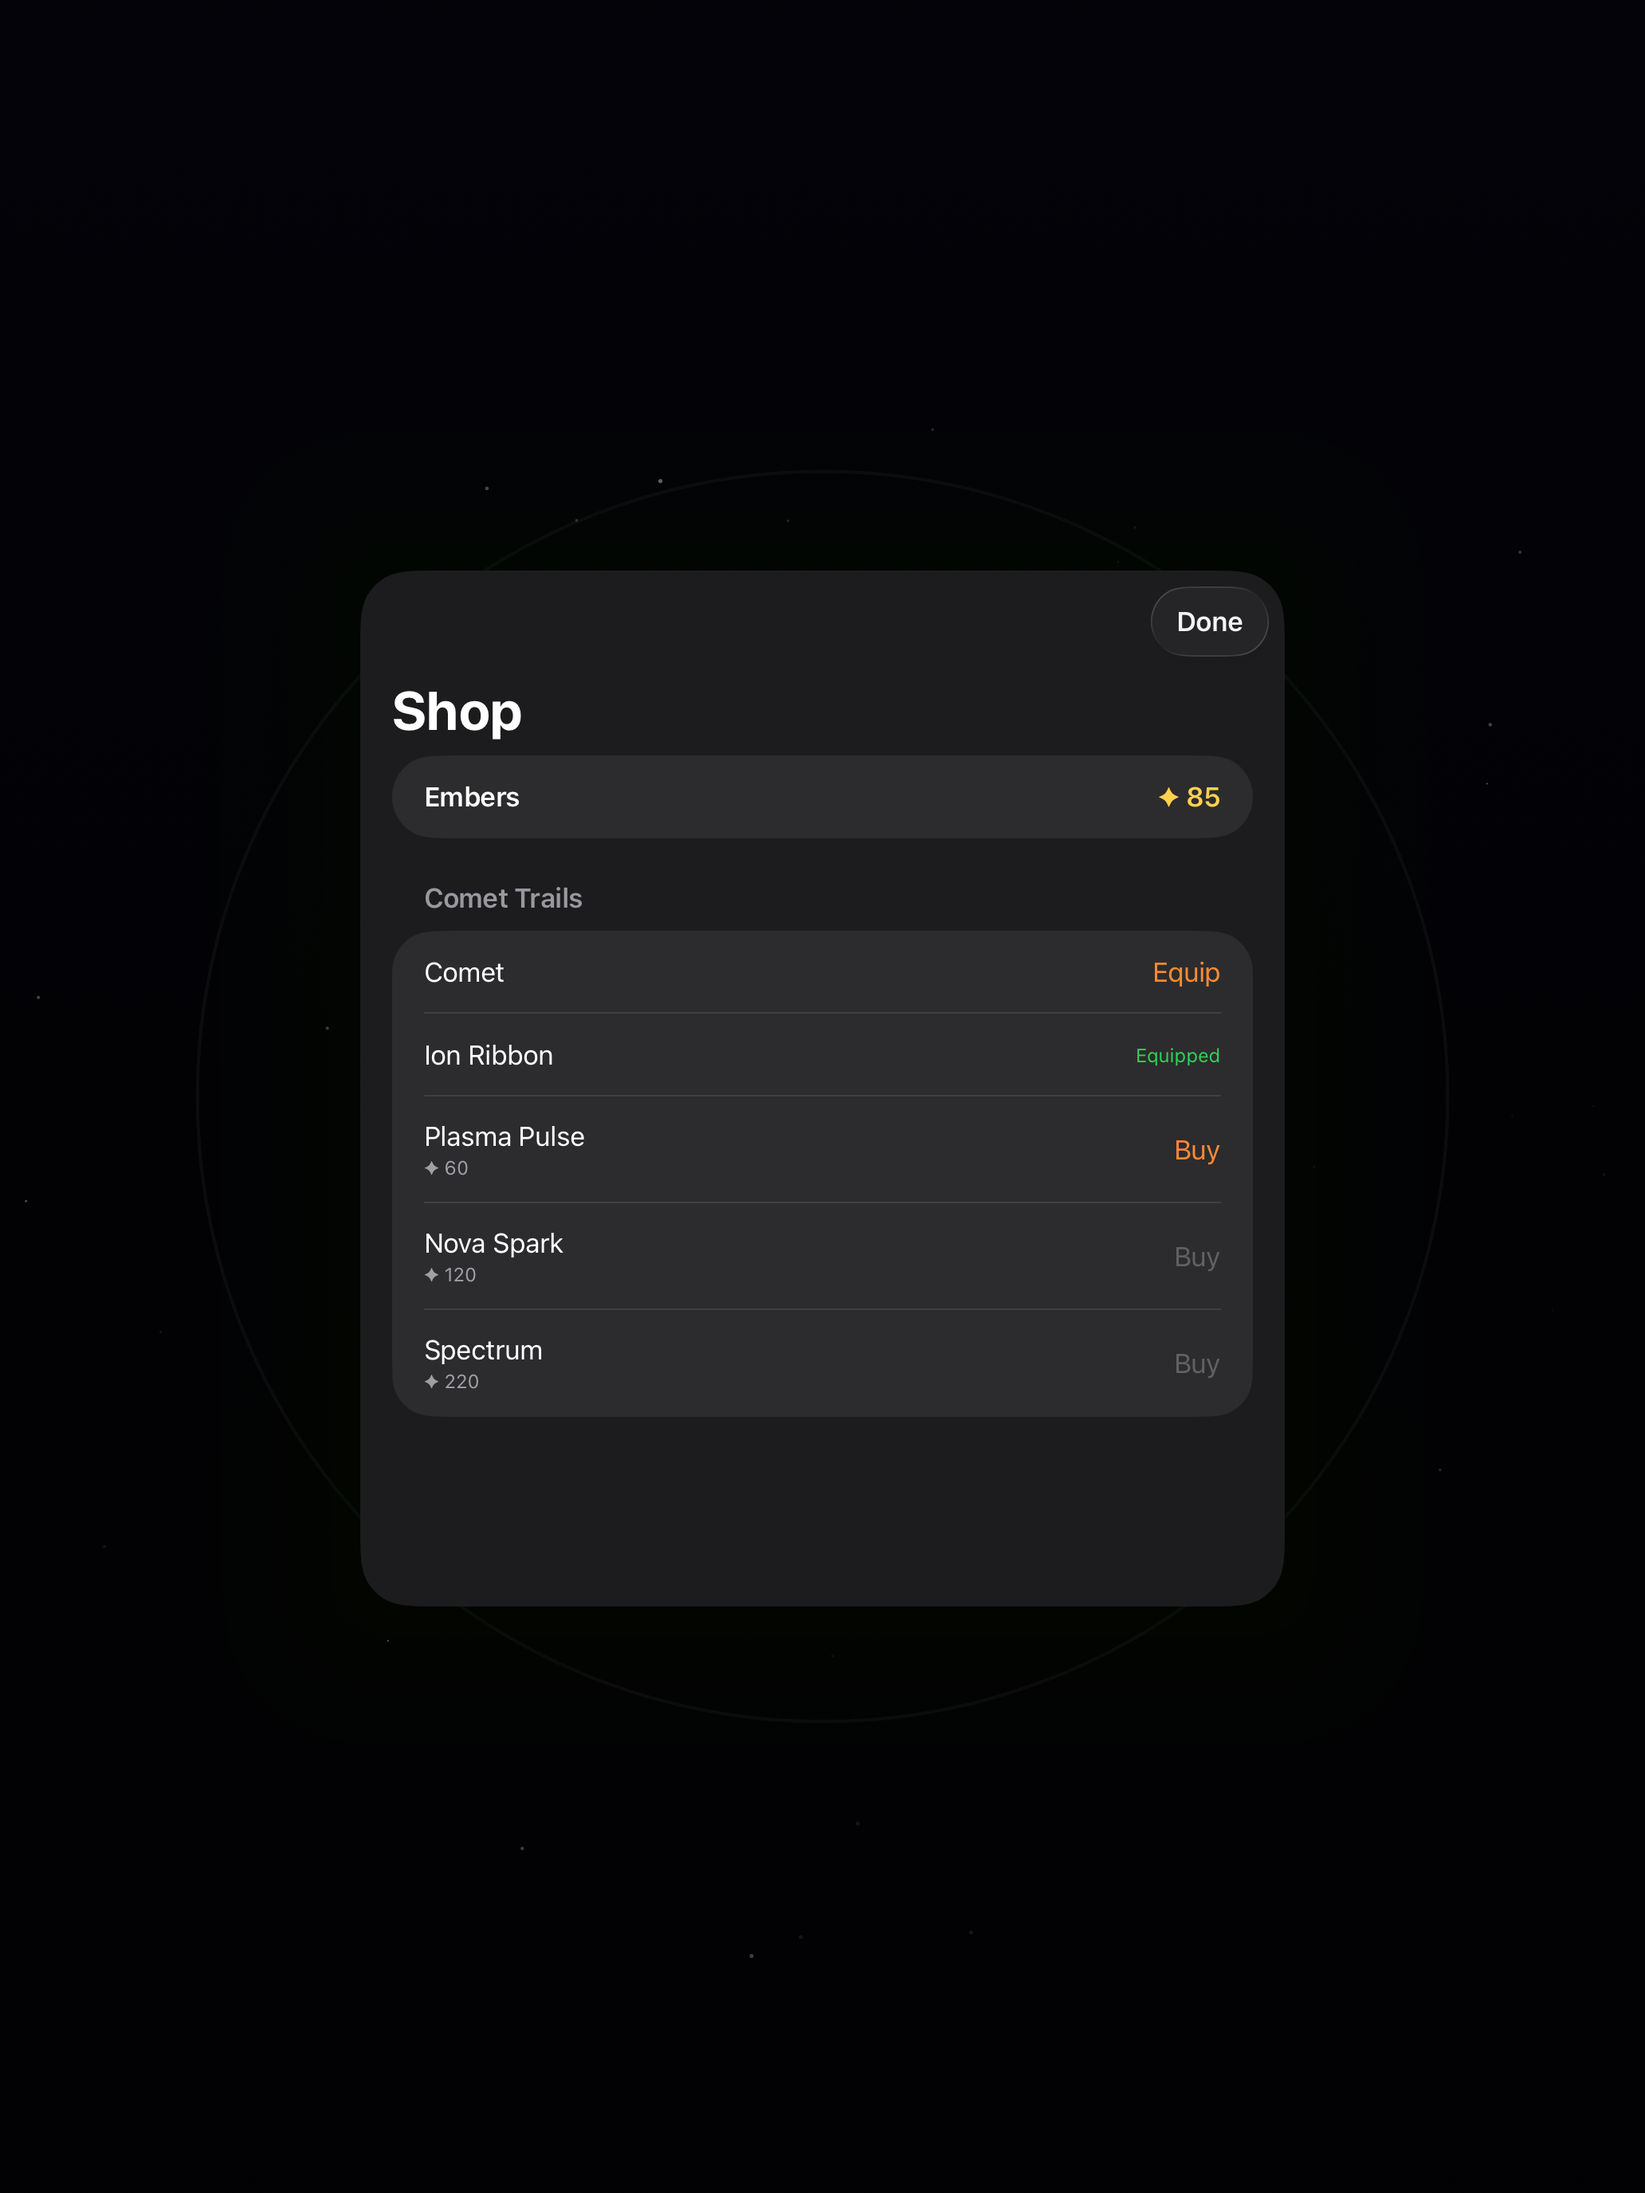
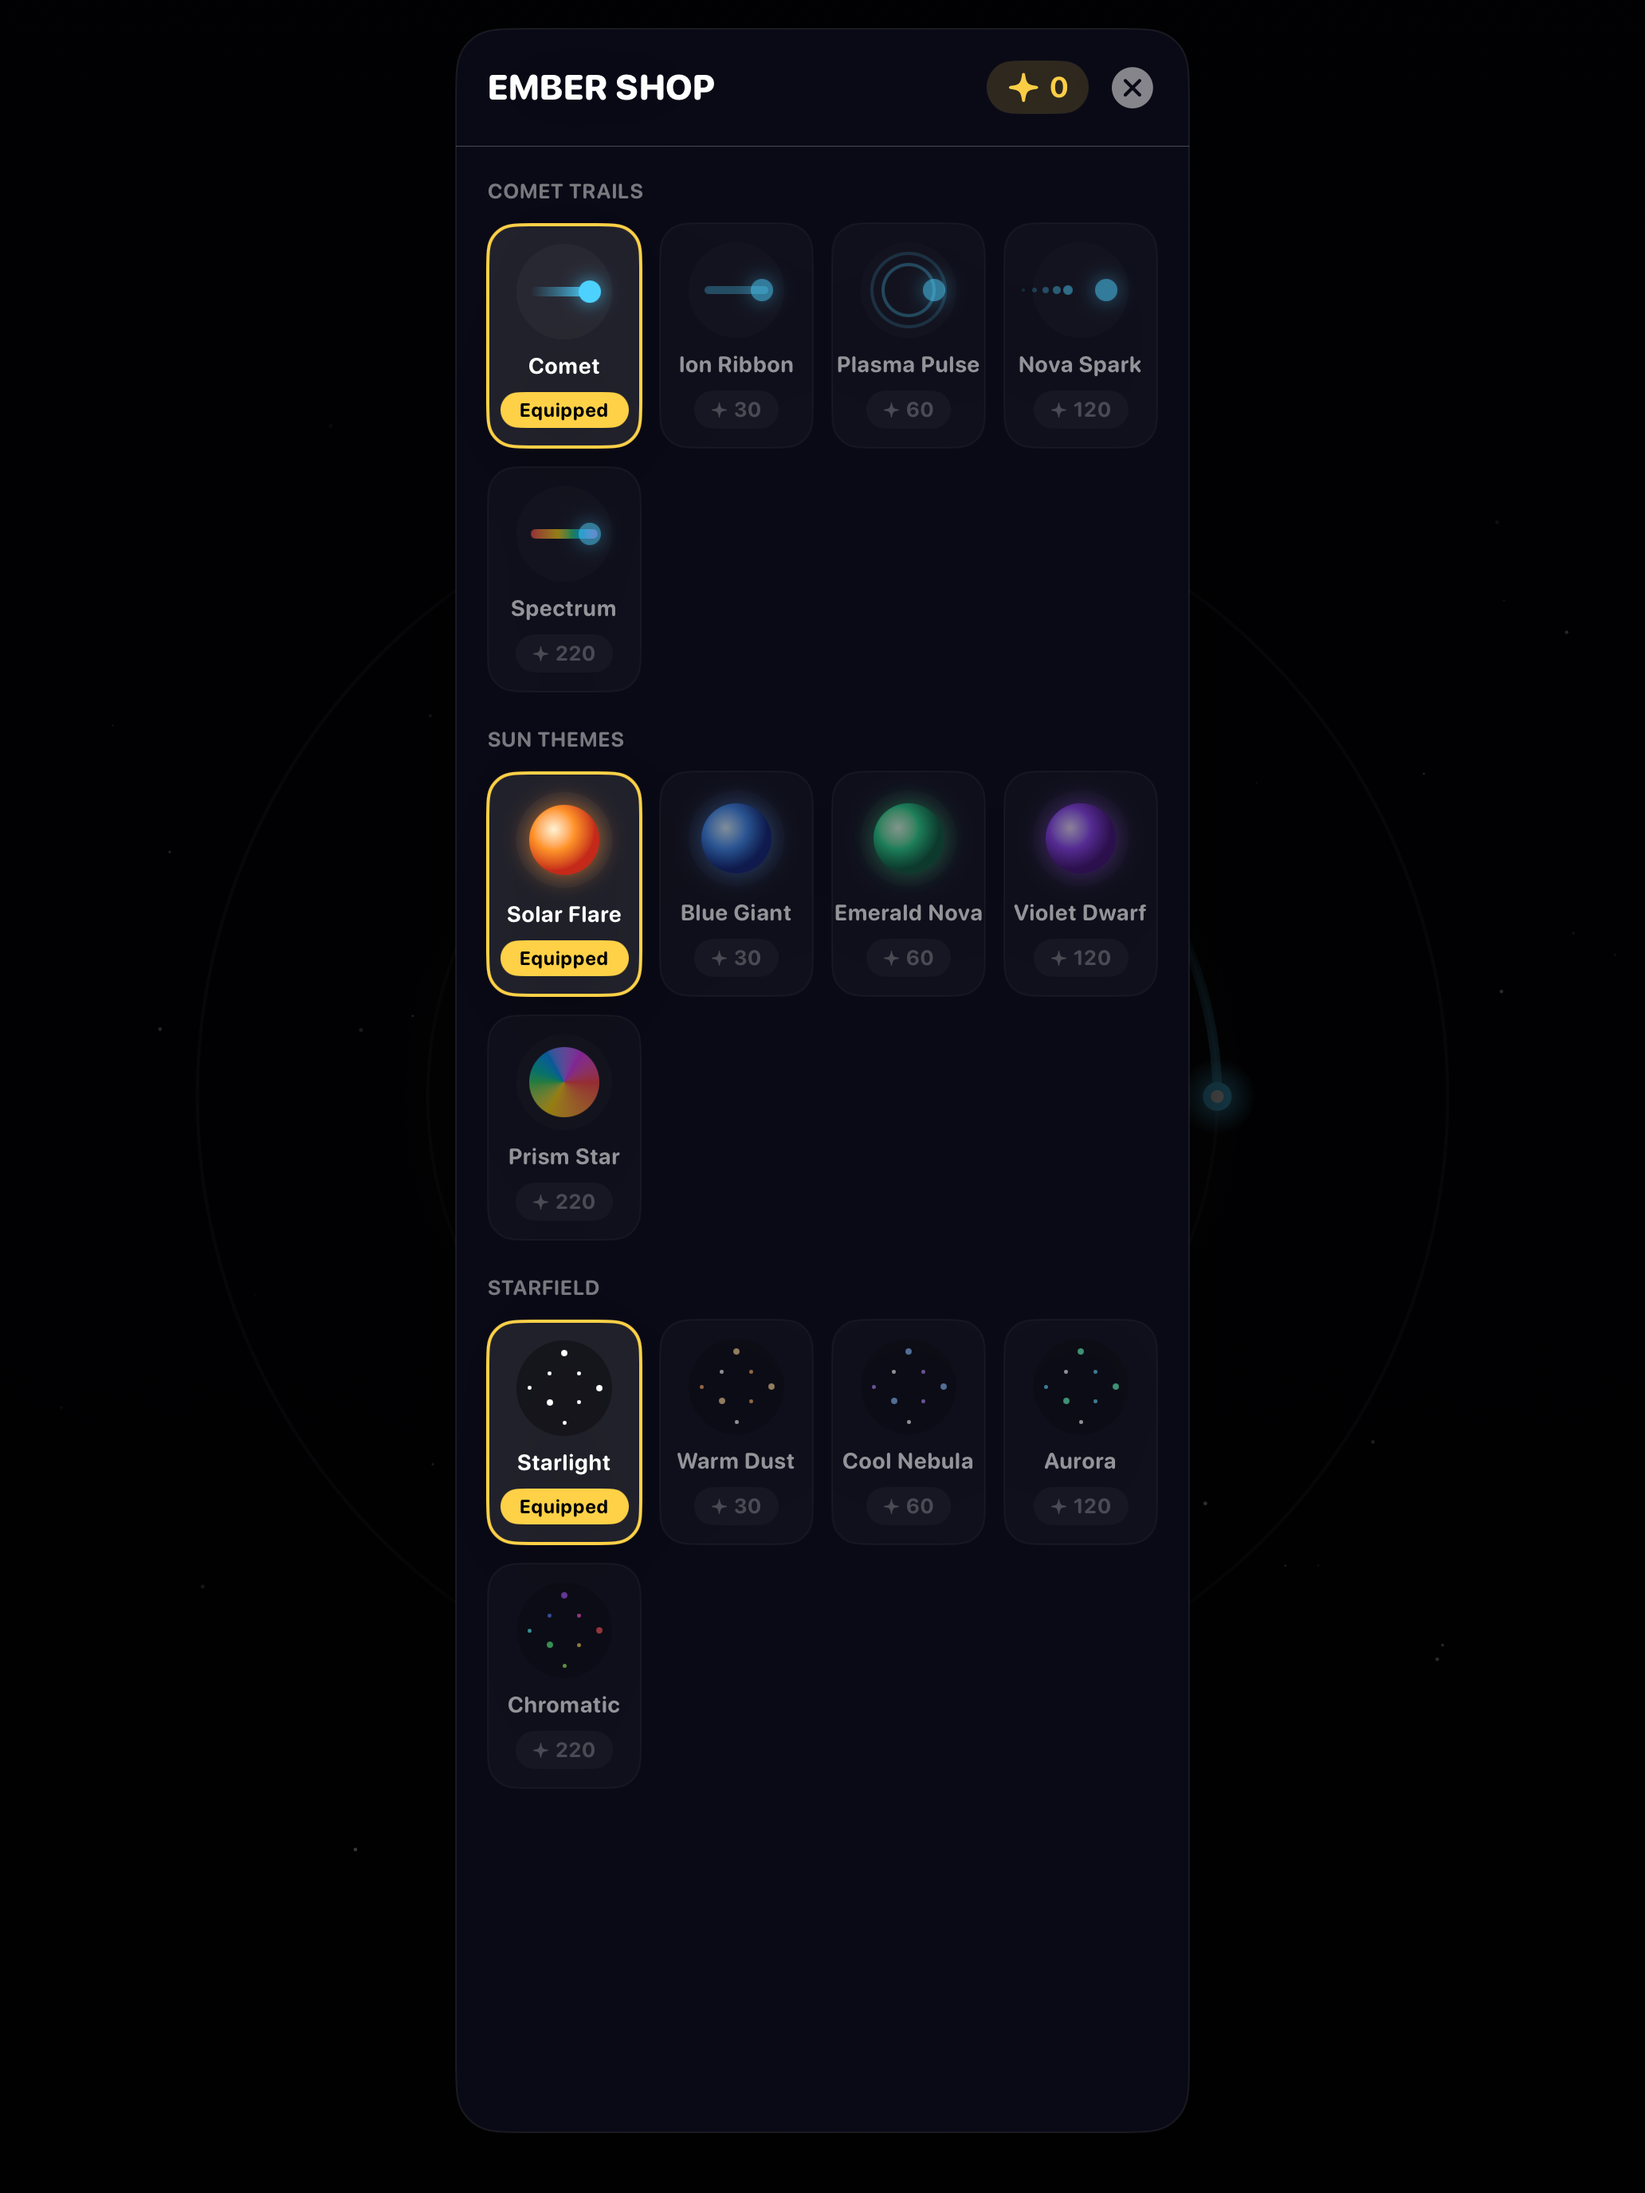
Recapture App Store screenshots for v1.1 UI
Replace the stale iPhone/iPad menu, gameplay, game-over, and shop shots
with ones matching the redesigned UI, and add a 5th shot per device
showing the new difficulty picker (Extreme selected). Update the
screenshot notes in the listing doc to match.

Changed region(s): [[0.2171, 0.0312, 0.8062, 0.8125], [0.6202, 0.0938, 0.7132, 0.2188], [0.5891, 0.0, 0.7132, 0.0625]]

diff --git a/store/app-store-listing.md b/store/app-store-listing.md
@@ -61,25 +61,24 @@ How close can you get before the sun wins?
 > (Settings → Pages → main → /docs). Same outstanding step as orbitor-game/plaingame.
 
 ## Screenshots
-> Pending re-capture for v1.1 — the menu, shop, and HUD were redesigned (difficulty
-> picker, pulse orb button, Ember Shop grid), so the existing PNGs in
-> `store/screenshots/appstore/` are stale and need to be replaced before this update
-> is submitted.
+Re-captured for v1.1 to reflect the redesigned menu, shop, and HUD (difficulty picker,
+pulse orb button, Ember Shop grid).
 
 Captured from simulators, then resized to the exact pixel sizes App Store Connect's
 screenshot uploader actually asks for on this account (no alpha channel, flattened):
 
 | Device | Size (px) | Simulator used | Notes |
 |---|---|---|---|
-| iPhone (6.5" slot) | 1284 × 2778 | iPhone 17 Pro Max, native 1320×2868, resized down | ASC asked for 1242×2688/2688×1242/1284×2778/2778×1284 — same slot Orbitor uses |
+| iPhone (6.5" slot) | 1284 × 2778 | iPhone 18 Pro Max, resized down to match ASC's slot | ASC asked for 1242×2688/2688×1242/1284×2778/2778×1284 — same slot Orbitor uses |
 | iPad 13" slot | 2064 × 2752 | iPad Pro 13-inch (M5), native resolution, no resize needed | |
 
-Captured with a fresh app install and a short delay before each shot to avoid the
-simulator's occasional system notification banner sneaking into frame — check any
-newly captured screenshot for that before uploading.
+Captured with a short delay before each shot to avoid the simulator's occasional
+system notification banner sneaking into frame — check any newly captured screenshot
+for that before uploading.
 
-Four shots per device, in `store/screenshots/appstore/`: **menu**, **mid-run gameplay**,
-**game over / new best**, **the shop**.
+Five shots per device, in `store/screenshots/appstore/`: **menu**, **mid-run gameplay**,
+**game over / new best**, **the shop**, and **the difficulty picker** (Extreme selected,
+showing the asymmetric-lane callout).
 
 ## Bundle / App record (already done via API, 2026-09-15)
 - Bundle ID `com.jasonstoops.sundiver` registered (Developer Portal, id `HPPPC42LX3`).
